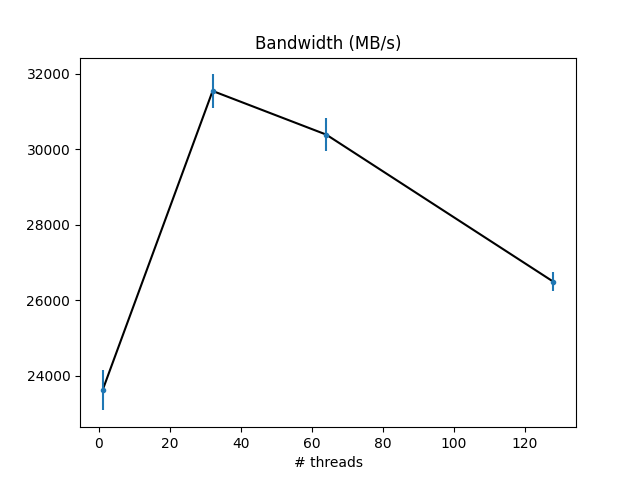
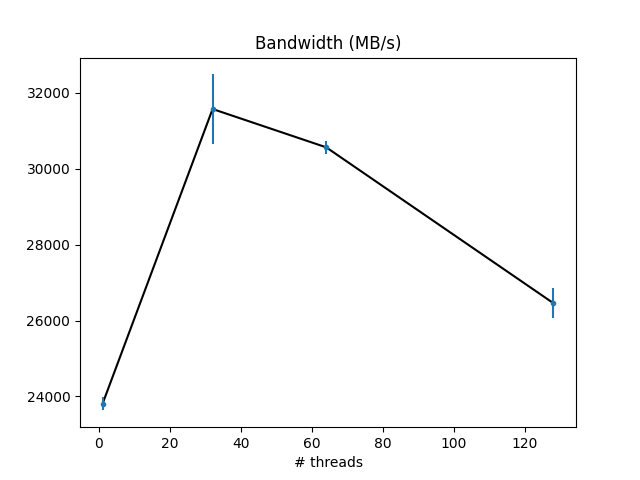
updated plot_results

diff --git a/Assignment2/task2/plot_results.py b/Assignment2/task2/plot_results.py
@@ -12,7 +12,8 @@ for n in [1,32,64,128]:
         with open("./avg.csv", "a") as file:
             file.writelines(",".join(averages))
             file.writelines("\n")
-            
+        file.close()
+
 data = np.genfromtxt('avg.csv', delimiter=',')
 cases = [1,32,64,128]
 data = np.reshape(data, (-1,5,4))
@@ -30,5 +31,37 @@ plt.errorbar(cases, mean_list, yerr = std_list, fmt = ".")
 plt.title("Bandwidth (MB/s)")
 plt.xlabel("# threads")
 plt.savefig("plot.png")
+
+for n in ['dynamic', 'guided', 'static']:
+    for i in range(5):
+        with open(f"./results_{n}128/result_{i+1}.txt", "r") as file:
+            averages = []
+            for k,l in enumerate(file):
+                if k in (26,27,28,29):
+                    averages.append(l.split()[1])
+        file.close()
+        with open("./avg_schedule.csv", "a") as file:
+            file.writelines(",".join(averages))
+            file.writelines("\n")
+        file.close()
+
+
+data = np.genfromtxt('avg_schedule.csv', delimiter=',')
+cases = ['dynamic', 'guided', 'static']
+data = np.reshape(data, (-1,5,4))
+mean_list = np.zeros((data.shape[0],))
+std_list = np.zeros((data.shape[0],))
+for i in range(data.shape[0]):
+    mean = np.mean(data[i][:,0])
+    std = np.std(data[i][:,0])
+    print(f'Test: {cases[i]}. Mean: {mean}. Std dev: {std}')
+    mean_list[i] = mean
+    std_list[i] = std
+plt.figure()
+plt.plot(cases, mean_list, color = "black")
+plt.errorbar(cases, mean_list, yerr = std_list, fmt = ".")
+plt.title("Bandwidth (MB/s)")
+plt.xlabel("Schedule")
 plt.show()
+        
 exit()
